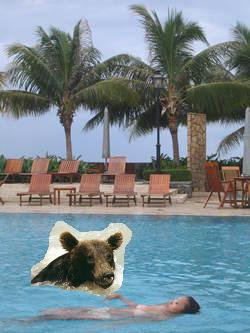
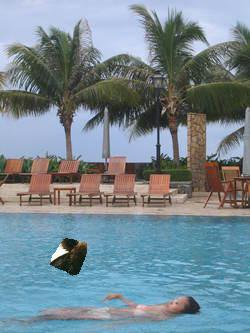
implement by Nanna Wu

Changed region(s): [[0.112, 0.6607, 0.532, 0.9009]]

diff --git a/cv/poisson_edit/PIE.py b/cv/poisson_edit/PIE.py
@@ -1,0 +1,302 @@
+# -*- coding: utf-8 -*-
+"""
+Created on Sun Jul 27 15:29:01 2014
+@author: Nannan Wu @躺在草原看夕阳
+Notice: mask image and source image must be the same size,  destination image 
+        must be of size larger than the Omega aera, that means destination image should be able
+        to contain what you want to copy.
+"""
+from __future__ import division
+from PIL import Image, ImageDraw
+import numpy as np
+from numpy import *
+import copy
+import datetime
+import pickle
+import os
+
+
+def GaussSeidel(A,b,MaxIteration):
+    '''
+    Implement Gauss-Seidel iteration
+    A is sparse matrix, that means A[i] is a dictionary, 'key' represents position
+    and value means the value in row i and column 'key'.
+    return x, the solution of linear problem Ax = b
+    '''
+    starttime = datetime.datetime.now()
+    
+#    A = np.array(A)
+#    file_matrixA = open(A)
+    
+    b = np.array(b)
+    
+    #MAXITERATION = 500
+    THRESHOLD = 1e-10
+    x = np.zeros(len(b))
+    for it in range(MaxIteration):
+#        print 'iteration: ' , it
+#        file_matrixA.seek(0,0)
+        x_before = copy.copy(x)
+        for i in range(len(x)):
+#            Ai = pickle.load(file_matrixA)
+            #s1: the sum of aij*xj(k) for j>i
+            #s2: the sum of aij*xj(k+1) for j<i
+#            sum = 0
+#            for j in range(len(x)):#this kind of iteration is tooooo slow
+#                if i != j:
+#                    sum += A[i][j]*x[j]
+            sum = 0
+            for key in A[i].keys():
+                if key != i:
+                    sum += A[i][key]*x[key]
+#            s1 = np.dot(Ai[ :i], x[:i])
+#            s2 = np.dot(Ai[ i + 1:], x[i + 1:])
+            x[i] = (b[i] - sum)/A[i][i]
+            
+#        error = x_before - x
+#        error = np.dot(error,error)
+#        error = np.sqrt(error)
+#        if error < THRESHOLD :
+#            break
+        if np.allclose(x_before, x, rtol=1e-8):
+            break
+#        del x_before
+        
+    endtime = datetime.datetime.now()
+    print('Gauss-Seidel Iteration consume time %d s' % (endtime - starttime).seconds)
+    
+#    file_matrixA.close()
+    
+    return x
+    
+    
+def getOmegaAndBoundary(img_mask):
+    '''
+    According to the paper <Poisson image editing>, the boundary of Omega are
+    those pixels  one of whoes four neighbours(left, right, up, down)is in Omega. 
+    And Omega are thoes pixels whoes coresponding pixel in mask is 'white'
+    input:input image is mask image, that means the 'white' aera is what we want.
+    retur:1) indices(with respect to img_src) of pixels in Omega,
+          2)Omega中像素在img_src中的序号，到在Omega中的序号的映射
+          3) Omega's boundary(indices are in source image, and maybe out of range
+             if Omega is mear to the boundary of source image).
+    说明：我们用像素在源图像中的序号（源图像一行一行串在一起，从0开始）来表示Omega和边界，边界是Omega向外扩展一圈，因此当Omega靠近源图像边缘时，边界就超出了源图像范围，这时候，表示边界的像素序号可能为负，这没有关系，因为我们要用到的是边界在目标图像(S)中的值，而不是在Omega中的值。需要注意的一点是，程序中Omega区域及其边界，以及Omega中点p的4邻域用的都是像素在源图像的序号，之后再转换到目标图像。
+    '''
+    width, height = img_mask.size
+    img_gray = img_mask.convert('L')
+    data = img_gray.getdata()
+#    boundary = [] # save the boundary pixels' indices(in source image).
+    Omega = [] # save the Omega aera pixels' indices(in source image)
+    #根据论文，我们需要将带求解的像素进行编号，带求解的像素即为Omega区域内的像素。
+    #从左至右逐行扫描mask图像，碰到像素值非零，则index++
+    pos2index = {} # pixel在源图像中的序号，到其在Omega区域的序号
+    index2pos = {} #与pos2index对应
+    index = 0
+    THRESHOLD = 100 #to determine what kind of pixel is in Omega 
+    for i in range(len(data)):
+#        print 'the %d th pixel.' % i
+        if data[i] >= THRESHOLD:
+            #1. Omega区域
+            Omega.append(i) # Omega area lies in where mask image pixel is white
+            
+            #2. Omega区域像素在源图像的序号到在Omega局部区域的序号的映射，方便构造方程组
+            pos2index[i] = index
+            index2pos[index] = i
+            index += 1
+            
+            #3. 求解Omega的边界：
+            #3.1 根据论文，Omega的边界由这些像素构成：其四邻域（上下左右）至少有一个像素在Omega中
+            #且本身不在Omega中，由此可知，边界像素必然处在某个Omega像素的四邻域中
+#            up = i - width #可能越界，当Omega区域位于源图像边缘时
+#            down = i + width #可能越界，当Omega区域位于源图像边缘时
+#            left = i - 1 #可能越界，当Omega区域位于源图像边缘时
+#            right = i + 1 #可能越界，当Omega区域位于源图像边缘时
+#            Np = [up, down, left, right]
+            #3.2 这四个像素是边界像素只有两种可能：下标越界，或者本身不是Omega中的元素
+#            for k in Np:
+#                if( ( k not in range(0,len(data)) ) or (data[k] < THRESHOLD) ):
+#                    if(k not in boundary): # 不要重复加入
+#                        boundary.append(k)
+            
+            #print 'i:%d,value:%d' % (i, data[i])
+            
+    return Omega, pos2index, index2pos
+    
+    
+def PoissonImageEditing(img_src, img_mask, img_dst, offset):
+    '''
+    input:
+    img_src, img_dst-- we want to seamless clone something from img_src to img_dst
+    img_mask--black white image. same size with img_src, and the white area define
+                the aera want to clone.
+    offset-- offset(x,y) the offset between img_src and img_dst, pixel(i,j) in 
+                img_src corespond pixel( i + offset.x, j + offset.y ) in img_dst
+    Notice: 
+    1)img_src, img_mask, img_dst must be single channel image, so if you want to
+      clone a color image, you should call this function thress times
+    2)For more information please read the paper <Poisson image editing>
+    
+    '''
+    #1. 求解源图像（拷贝来源）目标区域及其边界，获得的是像素序号
+    starttime_total = datetime.datetime.now()
+    print('Getting Omega aera...\n')
+    # pos2index是一个字典，key是像素在img_src中的序号，value是该像素在Omega中的序号
+    Omega, pos2index, index2pos = getOmegaAndBoundary(img_mask)
+    
+    #2. 构造线性方程组:逐行构造系数矩阵A和b,三个通道的A是一样的，b不相同
+    print('Forming linear system...\n')
+    starttime_ls = datetime.datetime.now()
+    width_src, height_src = img_src.size
+    width_dst, height_dst = img_dst.size
+    OmegaSize = len(Omega)
+    print('Size of Omega: ', OmegaSize)
+    
+    b_r = zeros(OmegaSize)
+    b_g = zeros(OmegaSize)
+    b_b = zeros(OmegaSize)
+    A = []
+#    A_t = zeros((OmegaSize,OmegaSize))
+#    matrixA_fileName = 'Matrix_A'
+#    file_matrixA = open(matrixA_fileName,'wb')
+#    pickle.dump(OmegaSize,file_matrixA)
+    #for all p belong Omega
+    for i in range(OmegaSize):
+#        print 'iteration %d times' % i
+        #2.1 p值Omega中的像素，index_p是p点在Omega中的序号
+        Ai = {}
+        p = Omega[i]
+        neighbourSize = 0 # 虽然只考虑4邻域，但当Omega位于S(img_dst)边界时，就没有4个相邻顶点S
+        sumfstarq_r = 0 # 论文 equation (7)
+        sumfstarq_g = 0
+        sumfstarq_b = 0
+        
+        sumVpq_r = 0
+        sumVpq_g = 0
+        sumVpq_b = 0
+        
+        #2.2 p's four neighbour
+        up = p - width_src #可能越界，当Omega区域位于源图像边缘时
+        down = p + width_src #可能越界，当Omega区域位于源图像边缘时
+        left = p - 1 #可能越界，当Omega区域位于源图像边缘时
+        right = p + 1 #可能越界，当Omega区域位于源图像边缘时
+        Np = [up, down, left, right]
+        for q in Np:
+            #2.3 when Omega contains pixels on the border of S(img_dst), some 
+            #pixels has neighbours less than 4
+            #将像素p转换成在S(img_dst)中的位置
+            row_src = q//width_src
+            col_src = q%width_src
+            row_dst = row_src + offset[1]
+            col_dst = col_src + offset[0]
+            #我们假设Omega不许完全处于S中，则若q点不在S(img_dst)上，则2.4和2.5都不需要做了
+            if (row_dst not in range(height_dst)) or (col_dst not in range(width_dst)):
+                continue
+            neighbourSize += 1
+            #2.4 left side of equation (7) in paper <Poisson image editing>,
+            # Modify the ith row of Matrix A 
+            # I think equation (7) has some problem since q must belong to Omega
+            # if you want to calculate Vpq, which eauqls gp - gq(g is img_src)
+            # so I calculate the sum of Vpq here
+            if q in Omega:
+                index_q = pos2index[q]
+#                A_t[i][index_q] = -1
+                Ai[index_q] = -1
+                sumVpq_r +=  img_src.getpixel((p%width_src, p//width_src))[0] -\
+                            img_src.getpixel((q%width_src,q//width_src))[0]
+                sumVpq_g +=  img_src.getpixel((p%width_src, p//width_src))[1] -\
+                            img_src.getpixel((q%width_src,q//width_src))[1]
+                sumVpq_b +=  img_src.getpixel((p%width_src, p//width_src))[2] -\
+                            img_src.getpixel((q%width_src,q//width_src))[2]
+            #2.5 right side of equation (7) in paper <Poisson image editing>
+            # Modify the ith row of b
+#            if q in boundary:
+            # Since p is in Omega, and q is the neighbour of q, so if q is not 
+            # in Omega , then q is the boudary of Omega
+            if q not in Omega:
+                sumfstarq_r += img_dst.getpixel((col_dst,row_dst))[0]
+                sumfstarq_g += img_dst.getpixel((col_dst,row_dst))[1]
+                sumfstarq_b += img_dst.getpixel((col_dst,row_dst))[2]
+
+        #2.6填写当前行的系数矩阵        
+        b_r[i] = sumfstarq_r +  sumVpq_r
+        b_g[i] = sumfstarq_g +  sumVpq_g
+        b_b[i] = sumfstarq_b +  sumVpq_b
+        Ai[i] = neighbourSize
+#        A_t[i][i] = neighbourSize
+        A.append(Ai)
+#        pickle.dump(Ai, file_matrixA, True)
+#        print 'A[i]:',A[i]
+#        print 'b_r[i]:',b_r[i]
+#        print 'b_g[i]:',b_g[i]
+#        print 'b_b[i]:',b_b[i]
+#        if i==10:
+#            break
+#    file_matrixA.close()
+    file_b = open('b_9k','wb')
+    pickle.dump(b_r,file_b)
+    file_b.close()
+
+    file_A = open('A_9k','wb')
+    pickle.dump(A,file_A)
+    file_A.close()
+    endtime_ls = datetime.datetime.now()
+    print('Forming linear system consume time: %d s\n' % (endtime_ls - starttime_ls).seconds)
+    
+    #3. 为每一个通道(rgb)求解方程，Gauss-Seidel iteration
+#    for i in range(len(Omega)):
+#        if A[i][i] == 0:
+#            print 'error: i', i 
+    maxIteration = 5000
+    print('Gauss-Seidel iterarion for "Red" channel...')
+    x_r = GaussSeidel(A, b_r, maxIteration)
+    print('\nGauss-Seidel iterarion for "Green" channel...')
+    x_g = GaussSeidel(A, b_g, maxIteration)
+    print('\nGauss-Seidel iterarion for "Blue" channel...')
+    x_b = GaussSeidel(A, b_b, maxIteration)
+    
+    os.remove('b_9k');os.remove('A_9k')
+
+    #4. 将计算出来的三个通道结果拷贝到目标图像对应区域
+    print('\nForming result image...\n')
+    img_dst_copy = img_dst.copy()#保存直接从源图像抠出目标区域拷贝到目标图像的结果
+    for i in range(len(x_r)):
+        #x[i]中存储的元素是Omega中的第i个像素，是源图像(img_src)中的第index2pos个像素
+        pos_src = index2pos[i]
+        row_src = pos_src//width_src
+        col_src = pos_src%width_src
+        #获得x[i]在目标图像S(img_dst)中的位置
+        row_dst = row_src + offset[1]
+        col_dst = col_src + offset[0]
+        img_dst.putpixel( (col_dst,row_dst), (int(x_r[i]), int(x_g[i]), int(x_b[i])) )
+        #上面语句是Poisson image editing 的结果，下面这条保存直接拷贝的结果
+        img_dst_copy.putpixel( (col_dst,row_dst), img_src.getpixel((col_src, row_src)) )
+    
+    #5..保存并显示图像
+    endtime_total = datetime.datetime.now()
+    timeConsume_total = (endtime_total - starttime_total).seconds
+    print('Poisson image editing consume time(totally): %d s' %  timeConsume_total)
+    img_dst.save(img_src.filename.split('.')[0] + '_result_iteration'\
+                + str(maxIteration)+ '_Consumetime'+ str(timeConsume_total) + 's.jpg')
+    img_dst_copy.save(img_src.filename.split('.')[0] + '_result_directCopy.jpg')
+    img_dst.show()
+    img_dst_copy.show()
+
+
+    
+if __name__ == '__main__':
+    print('-------Poisson Image Editing--------')
+    print('Start reading images...\n')
+    #bear
+    img_src = Image.open('images/bear.jpg')
+    img_mask = Image.open('images/bearmask_half.jpg')
+    img_dst = Image.open('images/pooltarget.jpg')
+    offset = [30,210]
+    
+
+
+#    #F16 warcraft clone
+#    img_src = Image.open('images/F16Source.jpg')
+#    img_mask = Image.open('images/F16Mask_half.jpg')
+#    img_dst = Image.open('images/F16Target.jpg')
+#    offset = [30,0]
+    PoissonImageEditing(img_src, img_mask, img_dst, offset)
